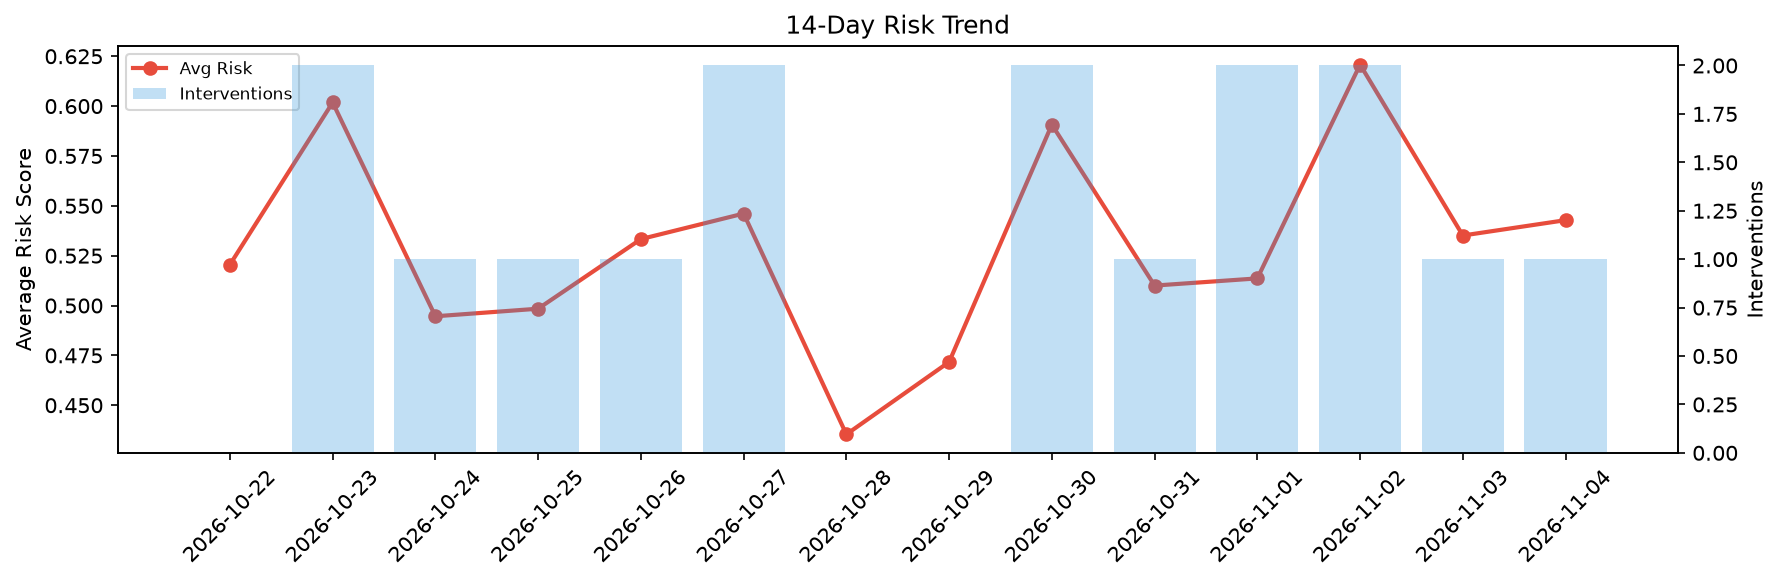
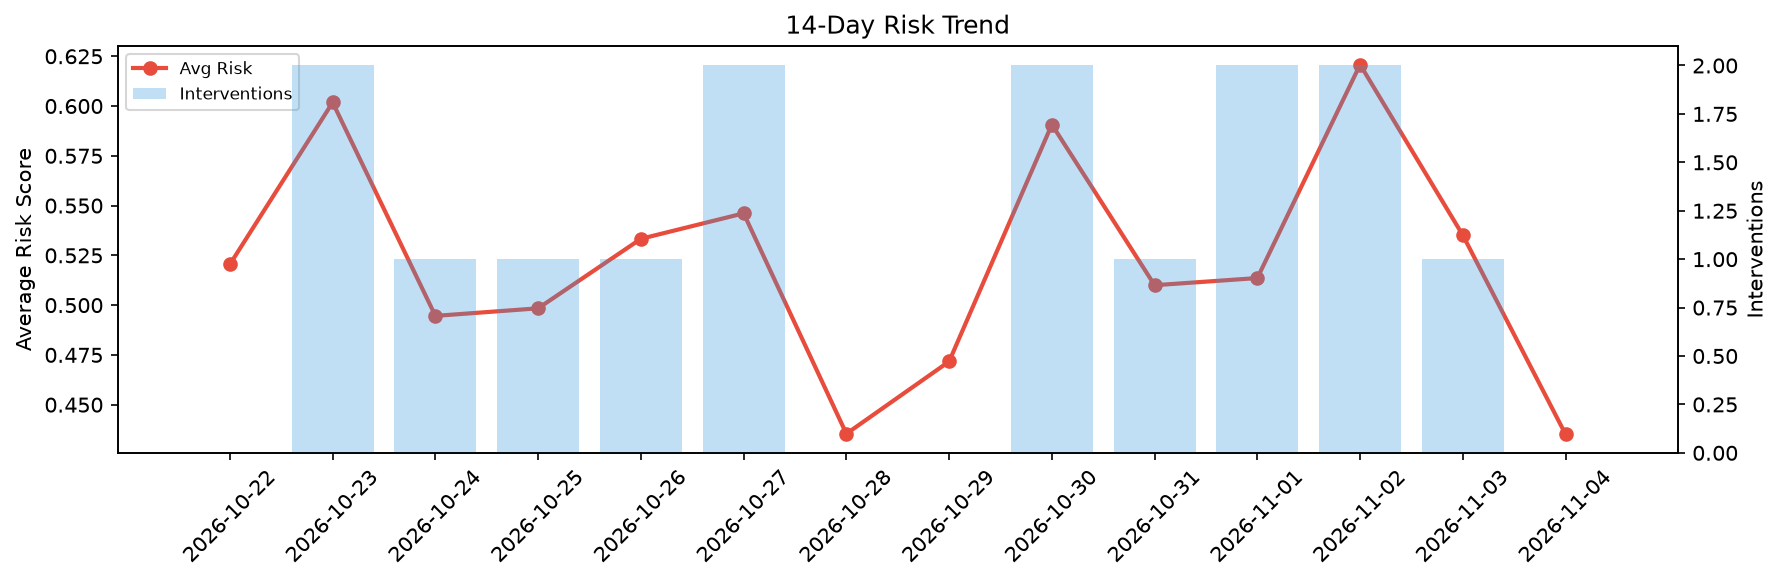
agent-improvement: daily cycle 2026-11-04T20:49

diff --git a/logs/2026-11-04.md b/logs/2026-11-04.md
@@ -1,6 +1,6 @@
 # Agent Improvement Report — 2026-11-04
 
-**Cycle ID:** `71783e26` | **Avg Risk:** 0.5428 | **Interventions:** 1/4
+**Cycle ID:** `57f521f6` | **Avg Risk:** 0.4351 | **Interventions:** 0/4
 
 ![Dashboard](2026-11-04_dashboard.png)
 
@@ -10,18 +10,18 @@
 
 | Domain | Risk Score | Decision | Alerts |
 |--------|-----------|----------|--------|
-| code_review | 0.8433 | intervene | complexity, duplication, coverage |
-| incident_response | 0.3653 | monitor | none |
-| data_pipeline | 0.4377 | monitor | none |
-| deployment | 0.525 | monitor | canary_error |
+| code_review | 0.3962 | monitor | none |
+| incident_response | 0.5492 | monitor | none |
+| data_pipeline | 0.4948 | monitor | freshness |
+| deployment | 0.3001 | monitor | none |
 
 ## Delta vs Yesterday
 
 | Domain | Today | Yesterday | Change |
 |--------|-------|-----------|--------|
-| code_review | 0.8433 | 0.6879 | 📈 22.6% |
-| incident_response | 0.3653 | 0.337 | 📈 8.4% |
-| data_pipeline | 0.4377 | 0.5182 | 📉 -15.5% |
-| deployment | 0.525 | 0.5971 | 📉 -12.1% |
+| code_review | 0.3962 | 0.6879 | 📉 -42.4% |
+| incident_response | 0.5492 | 0.337 | 📈 63.0% |
+| data_pipeline | 0.4948 | 0.5182 | 📉 -4.5% |
+| deployment | 0.3001 | 0.5971 | 📉 -49.7% |
 
 **Refinement:** `{'adjustment': 'maintain', 'trend': 'improving', 'window': 4}`
